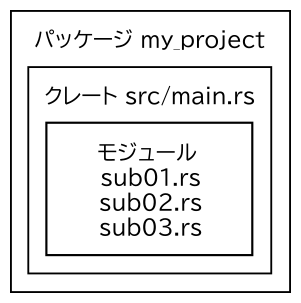
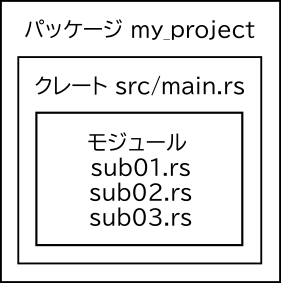
update

Changed region(s): [[0.0, 0.0, 1.0, 1.0], [0.5694, 0.4523, 0.6833, 0.5371]]

diff --git a/bookmarks.html b/bookmarks.html
@@ -9,7 +9,7 @@
 </head>
 <body><header>
 <script type="text/javascript" src="//xa.shinobi.jp/ufo/190668700"></script><noscript><a href="//xa.shinobi.jp/bin/gg?190668700" target="_blank"><img src="//xa.shinobi.jp/bin/ll?190668700" border="0"></a><br><span style="font-size:9px"><img style="margin:0;vertical-align:text-bottom;" src="//img.shinobi.jp/tadaima/fj.gif" width="19" height="11"> </span></noscript>
-<div id="date"><time datetime="2026-04-03 03:03:44">2026-04-03 03:03:44</time></div>
+<div id="date"><time datetime="2026-04-06 00:47:27">2026-04-06 00:47:27</time></div>
 <div><a href="https://user040404.github.io/">トップページ</a></div>
 <h1>お気に入りのサイト</h1>
 <nav id="TableOfContents"></nav>
@@ -65,7 +65,7 @@
 </ul>
 <hr>
 <ul>
-<li>Rust: <a href="https://www.tohoho-web.com/ex/rust.html">とほほのRust入門</a> / <a href="https://maku77.github.io/rust/">まくまくRustノート</a> / <a href="https://zenn.dev/mebiusbox/books/22d4c1ed9b0003">Rust入門</a> / <a href="https://note.com/marupeke296/m/m73b065881769">Rustやろうぜ！</a> / <a href="https://www.nct9.ne.jp/m_hiroi/linux/rust.html">お気楽 Rust プログラミング超入門</a> / <a href="https://doc.rust-jp.rs/book-ja/">The Rust Programming Language 日本語版</a></li>
+<li>Rust: <a href="https://qiita.com/kazaf91/items/89c0272e7c8647a439e1">Rust入門講座</a> / <a href="https://www.tohoho-web.com/ex/rust.html">とほほのRust入門</a> / <a href="https://maku77.github.io/rust/">まくまくRustノート</a> / <a href="https://zenn.dev/mebiusbox/books/22d4c1ed9b0003">Rust入門</a> / <a href="https://note.com/marupeke296/m/m73b065881769">Rustやろうぜ！</a> / <a href="https://www.nct9.ne.jp/m_hiroi/linux/rust.html">お気楽 Rust プログラミング超入門</a> / <a href="https://doc.rust-jp.rs/book-ja/">The Rust Programming Language 日本語版</a></li>
 <li>C#: <a href="https://www.tohoho-web.com/ex/c-sharp.html">とほほのC#入門</a> / <a href="https://prota-p.com/">C#(.NET)で学ぶプログラミング入門</a> / <a href="https://9cubed.info/">9cubed</a> / <a href="https://ufcpp.net/">++C++; // 未確認飛行 C</a> / <a href="http://www.nct9.ne.jp/m_hiroi/csharp/index.html">お気楽Ｃ＃プログラミング超入門</a> / <a href="https://learn.microsoft.com/ja-jp/dotnet/csharp/">Microsoft C#</a> / <a href="https://qiita.com/Ted-HM/items/1d4ecdc2a252fe745871">C# CODING GUIDELINES 2024</a></li>
 <li>C++: <a href="https://rinatz.github.io/cpp-book/">ゼロから学ぶC++</a> / <a href="http://wisdom.sakura.ne.jp/programming/cpp/index.html">C++入門</a> / <a href="https://programming-place.net/ppp/contents/cpp/index.html">ProgrammingPlacePlus C++編</a> / <a href="https://programming-place.net/ppp/contents/cpp2/index.html">ProgrammingPlacePlus 新C++編</a> / <a href="https://ezoeryou.github.io/cpp-intro/">江添亮のC++入門</a> / <a href="https://maku77.github.io/cpp/">まくまくC/C++ノート</a> / <a href="http://www.nct9.ne.jp/m_hiroi/linux/cpp.html">お気楽Ｃ++プログラミング超入門</a> / <a href="http://stlalv.la.coocan.jp/">C++マニアック</a> / <a href="http://www7b.biglobe.ne.jp/~robe/">ロベールの部屋</a> / <a href="https://cpprefjp.github.io/">cpprefjp - C++日本語リファレンス</a> / <a href="https://ja.cppreference.com/w/">cppreference.com</a></li>
 <li>C言語: <a href="http://wisdom.sakura.ne.jp/programming/c/index.html">C言語入門</a> / <a href="https://programming-place.net/ppp/contents/c/index.html">ProgrammingPlacePlus Ｃ言語編</a> / <a href="https://www.tohoho-web.com/ex/c-lang.html">とほほのC言語入門</a> / <a href="http://www.nct9.ne.jp/m_hiroi/linux/clang.html">お気楽Ｃ言語プログラミング超入門</a></li>